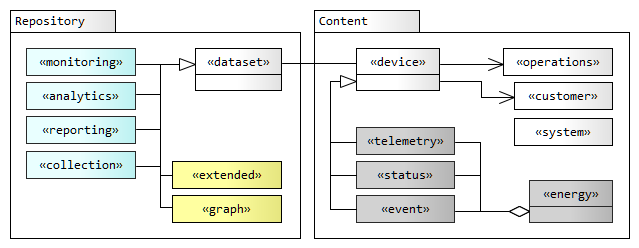
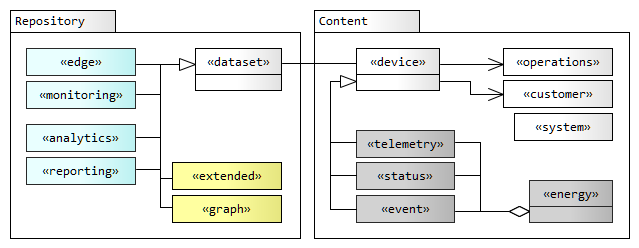
ok

diff --git a/api.sundaya.monitored.equipment/Implementation/Architecture/Storage.md b/api.sundaya.monitored.equipment/Implementation/Architecture/Storage.md
@@ -18,13 +18,13 @@ The data metamodel below defines high-level relationships between _Repository_ a
 
 # Repositories
 
-Data is stored in six technically differentiated repositories (depicted in the metamodel above).
+Data is stored in six technically differentiated types of repository (depicted in the metamodel above).
 
-- The primary datasets are ingested, transformed, and stored in four repositories (_collection_, _monitoring_, _analytics_, _reporting_).
+- Data is ingested through two transient data puddles (_edge_, _monitoring_).
 
-- Secondary datasets provide relatively static master and extended data and are stored in the _extended_ and _graph_ repositories. 
+- The primary datasets are held in two warehouses (_analytics_, _reporting_).
 
-  Data in the secondary repositories are combined as external tables with the primary datasets through joins.
+- A secondary group of datasets are relatively static, master and extended data storage solutions (_extended_, _graph__). 
 
 _Repository_ archetypes and their abbreviated mnemonics and qualifiers are listed below. 
 
@@ -36,23 +36,25 @@ Repository      | Mnemonic                  | Qualifiers                        
 monitoring      | `mon`                     | `mon_std`                         | _Stackdriver Monitoring_
 analytics       | `any`                     | `any_bq`                          | _BigQuery Analytics_
 reporting       | `rpt`                     | `rpt_bt`<br>`rpt_ds`              | _Bigtable Reporting_<br>_Datastore Reporting_   
-collection      | `col`                     | `col_rds`<br>`col_sql`            | _Redis Data Collection_<br>_SQLLite Data Collection_
+edge            | `edg`                     | `edg_rds`<br>`edg_sql`            | _Redis Edge Data_<br>_SQLLite Edge Data_
 extended        | `ex`                      | `ex_gcs`                          | _Google Cloud Storage Files_
 graph           | `gr`                      | `gr_jg`<br>`gr_fs`<br>`gr_btsy`   | _JanusGraph Graph Data_<br>_Bitsy Edge Graph_<br>_Firestore Document Map_
 
 _Repository_ archetypes are described in more detail below:
 
+- **edge** - The _edge_ repository is a transient store for data collection and edge stream processing.<br><br>It also provides connection buffering by queuing and retrying messages undelivered due to connectivity loss or outage at the receiving end of the connection.<br><br>Suitable repositories would be in-memory (in-process) database such as _SQLLite_ or a lightweight key-value store such as _Redis_.
+
 - **monitoring** - The _monitoring_ repository is a transient store for streaming device data. The data is used to monitor field devices in real time.<br><br>Data is streamed into an API endpoint by device controllers (BBC) or a device gateways (EHub) in near-real-time. Once received at the endpoint the raw data is logged and held in the monitoring subsystem, and available for viewing in the **OI dashboard**.<br><br>The data is produced by a rolling appender and purged after about 6 weeks.<br>
+
+<br>
 
 - **analytics** - Datasets in the _analytics_ repository track device performance over time, and enable problem tracing and trend analysis, including predictions.<br><br>Data is consumed from the streaming queue and stored in a relational format. The data may be joined with other datasets and accessed through SQL queries for anaytics (OLAP) in the **BI dashboard**.<br><br>Data rows are append-only and never modified.<br>
 
 - **reporting** - The _reporting_ repository contains periodic aggregates of data aligned to time windows: for example energy data totals for a week.<br><br>The datasets are produced with low latency and high throughput from the streaming queue, by parallel processors. However some data may arrive late, often due to poor connectivity seen in remote locations, or when a data backlog is sent after the system is offline due to maintenance etc. The stream processors are able to align these late-arriving data with previously processed time windows.<br><br>The data is stored in a denormalised wide-column database for fast access by **API** and other application services and transactional systems (OLTP).<br>
 
-- **collection** - The _collection_ repository is primarily intended as a transient store for edge data collection and edge stream processing.<br><br>It also provides connection buffering by queuing and retrying messages undelivered due to connectivity loss or outage at the receiving end of the connection.<br><br>Suitable repositories would be in-memory (in-process) database such as _SQLLite_ or a lightweight key-value store such as _Redis_.
-
 <br>
 
-- **extended** - The _nearline_ data is typically held in cloud storage or other file system, and contains _rerference_ data for customers, suppliers, personnel, sites, products and services.<br><br>This dataset is expected to change very infrequently. Data is inserted and updated through Apps and the web tier when a transaction is completed, or periodically (e.g. twice a day) through a batch data file exported from stand-alone systems, such as the ERP system.<br><br>The reference data is stored as sheets or JSON documents.<br>
+- **extended** - The _extended_ repository is typically implemented by cloud storage or other file systems, It contains _master_ and _reference_ data for __parties_, _places_ and _things_; such as customers, suppliers, agents, sites, products, and services.<br><br>The data in this repository is not expected to change very frequently. Data is inserted and updated through Apps and the web tier when a transaction is completed, or periodically (e.g. twice a day) through a batch data file exported from stand-alone systems, such as the ERP system.<br><br>The reference data is stored as sheets or JSON documents.<br>
 
 - **graph** - The _graph_ repository contains traversible relationships among _customer_ and _operations_ entities, such as the sales and service network. The underlying storage for the _graph_ repository is provided by the same wide-column database cluster used for _reporting_ data.<br><br>_graph_ data is retrieved using graph query language in the **Sales portal** implementation.
 
